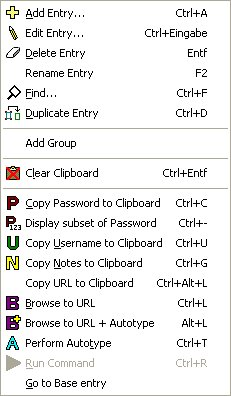
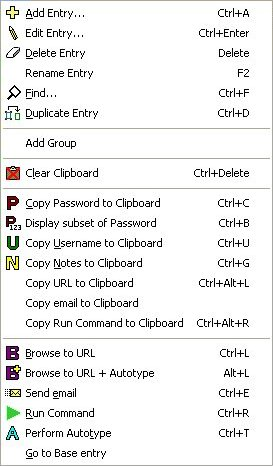
help file English 3.19

Changed region(s): [[0.0, 0.0, 1.0, 1.0], [0.6364, 0.4848, 0.697, 0.5152]]

diff --git a/pwsafe/pwsafe/help/default/html/menu_toolbar.html b/pwsafe/pwsafe/help/default/html/menu_toolbar.html
@@ -49,6 +49,12 @@ Toolbar</b></li>
       <td><i>Opens a dialog to open and switch to another safe.</i></td>
     </tr>
     <tr>
+      <td align="center"><img src="images/toolbar/classic/close.jpg"></td>
+      <td align="center"><img src="images/toolbar/new/close.jpg"></td>
+      <td align="center">X</td>
+      <td><i>Closes the current safe.</i></td>
+    </tr>
+    <tr>
       <td align="center"><img src="images/toolbar/classic/save.jpg"></td>
       <td align="center"><img src="images/toolbar/new/save.jpg"></td>
       <td align="center">X</td>
@@ -227,6 +233,12 @@ Toolbar</b></li>
       <td align="center"><img src="images/toolbar/new/find.jpg"></td>
       <td align="center"></td>
       <td><i>Switches on the find bar.</i></td>
+    </tr>
+    <tr>
+      <td align="center"><img src="images/toolbar/classic/sendemail.jpg"></td>
+      <td align="center"><img src="images/toolbar/new/sendemail.jpg"></td>
+      <td align="center"></td>
+      <td><i>Send an email.</i></td>
     </tr>
   </tbody>
 </table>

diff --git a/pwsafe/pwsafe/help/default/html/edit_menu.html b/pwsafe/pwsafe/help/default/html/edit_menu.html
@@ -150,6 +150,14 @@ clipboard.</p>
 
 <p>Copy the current selection's URL field to the clipboard.</p>
 
+<h3>Copy email to Clipboard</h3>
+
+<p>Copy the current selection's email field to the clipboard.</p>
+
+<h3>Copy Run Command to Clipboard</h3>
+
+<p>Copy the current selection's Run Command field to the clipboard.</p>
+
 <h3>Browse to URL</h3>
 
 <p>When an entry is selected, and the entry has a URL associated
@@ -169,6 +177,11 @@ input field.<br>
 <small><i>See <a href="autotype.html">Using
 Auto Type</a> for more information.</i></small></p>
 
+<h3>Send email</h3>
+
+<p>Prepare an email to be sent with the data in the current selection's email field.<br>
+<small><i>See <a href="entering_pwd.html">User
+Names, Passwords, and Groups</a> for more information.</i></small></p>
 
 <h3>Perform Auto Type</h3>
 

diff --git a/pwsafe/pwsafe/help/default/html/misc_tab.html b/pwsafe/pwsafe/help/default/html/misc_tab.html
@@ -221,6 +221,7 @@ password to the clipboard. &nbsp;The available actions are:</p>
   <li>Copy password to clipboard, minimize</li>
   <li>Copy username to clipboard</li>
   <li>Run Command</li>
+  <li>Send email</li>
   <li>View/Edit selected entry</li>
 </ul>
 <p>Note that last item, copy password and then minimize, won't work as
